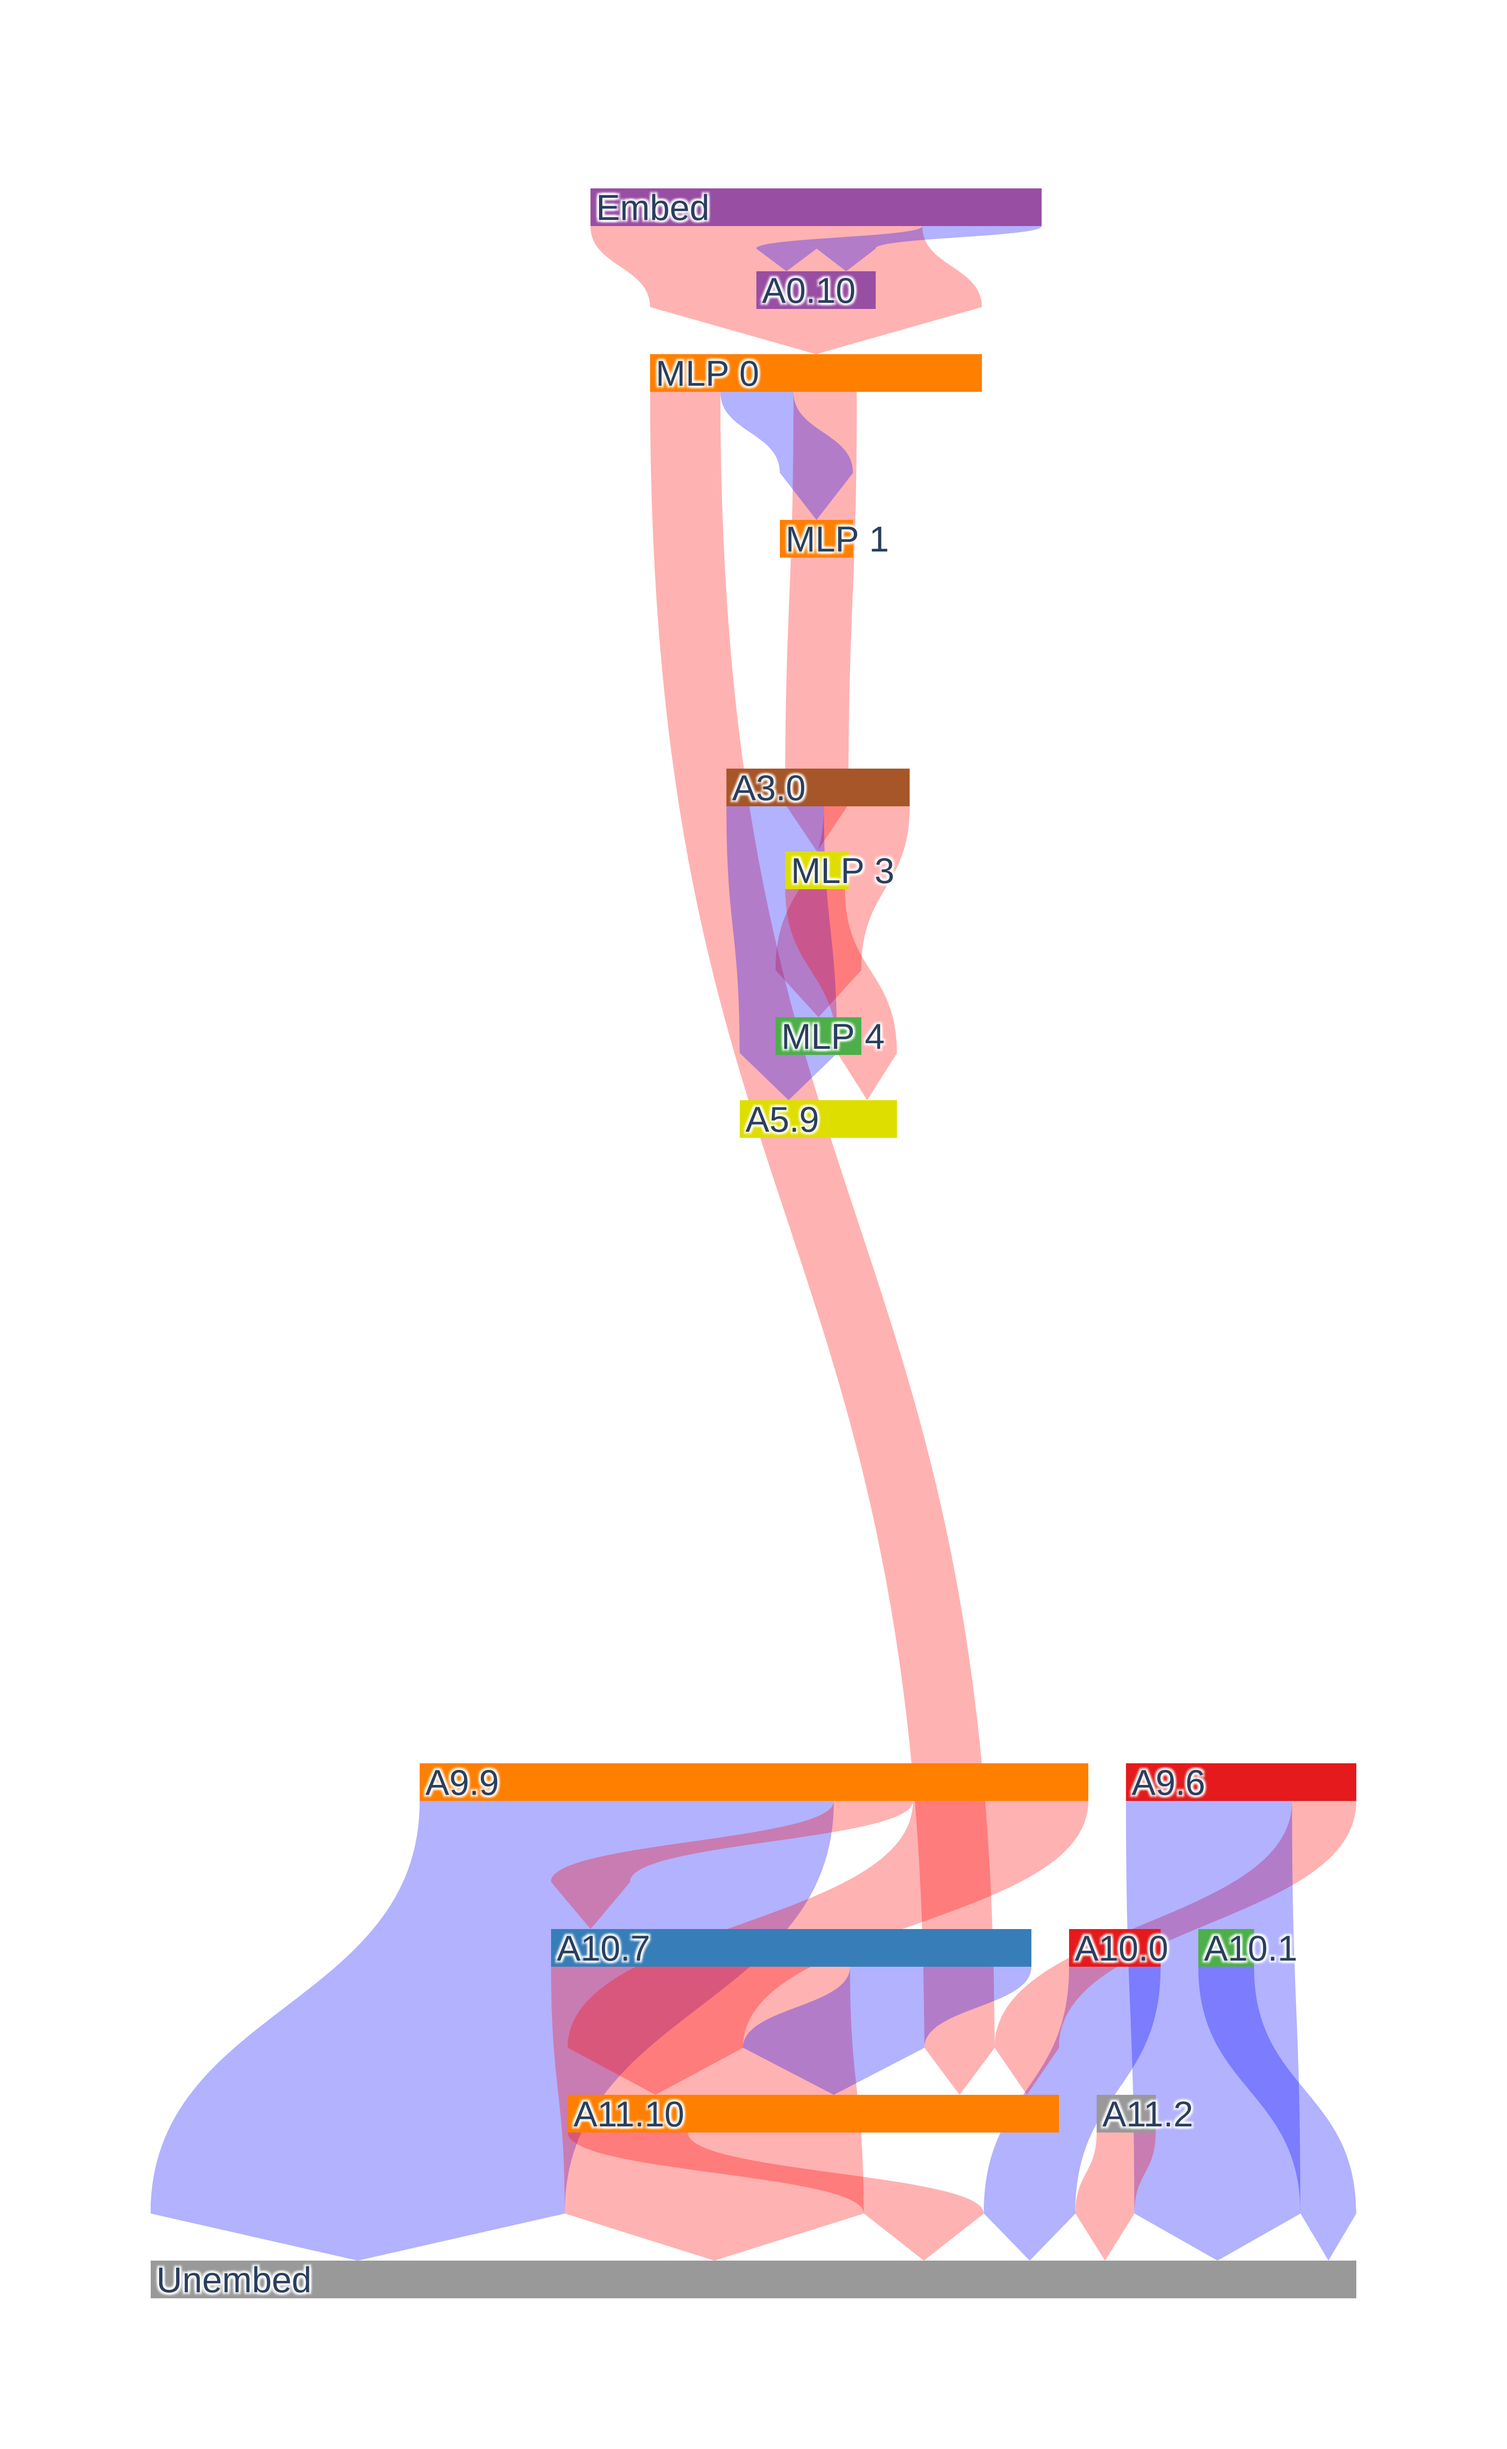
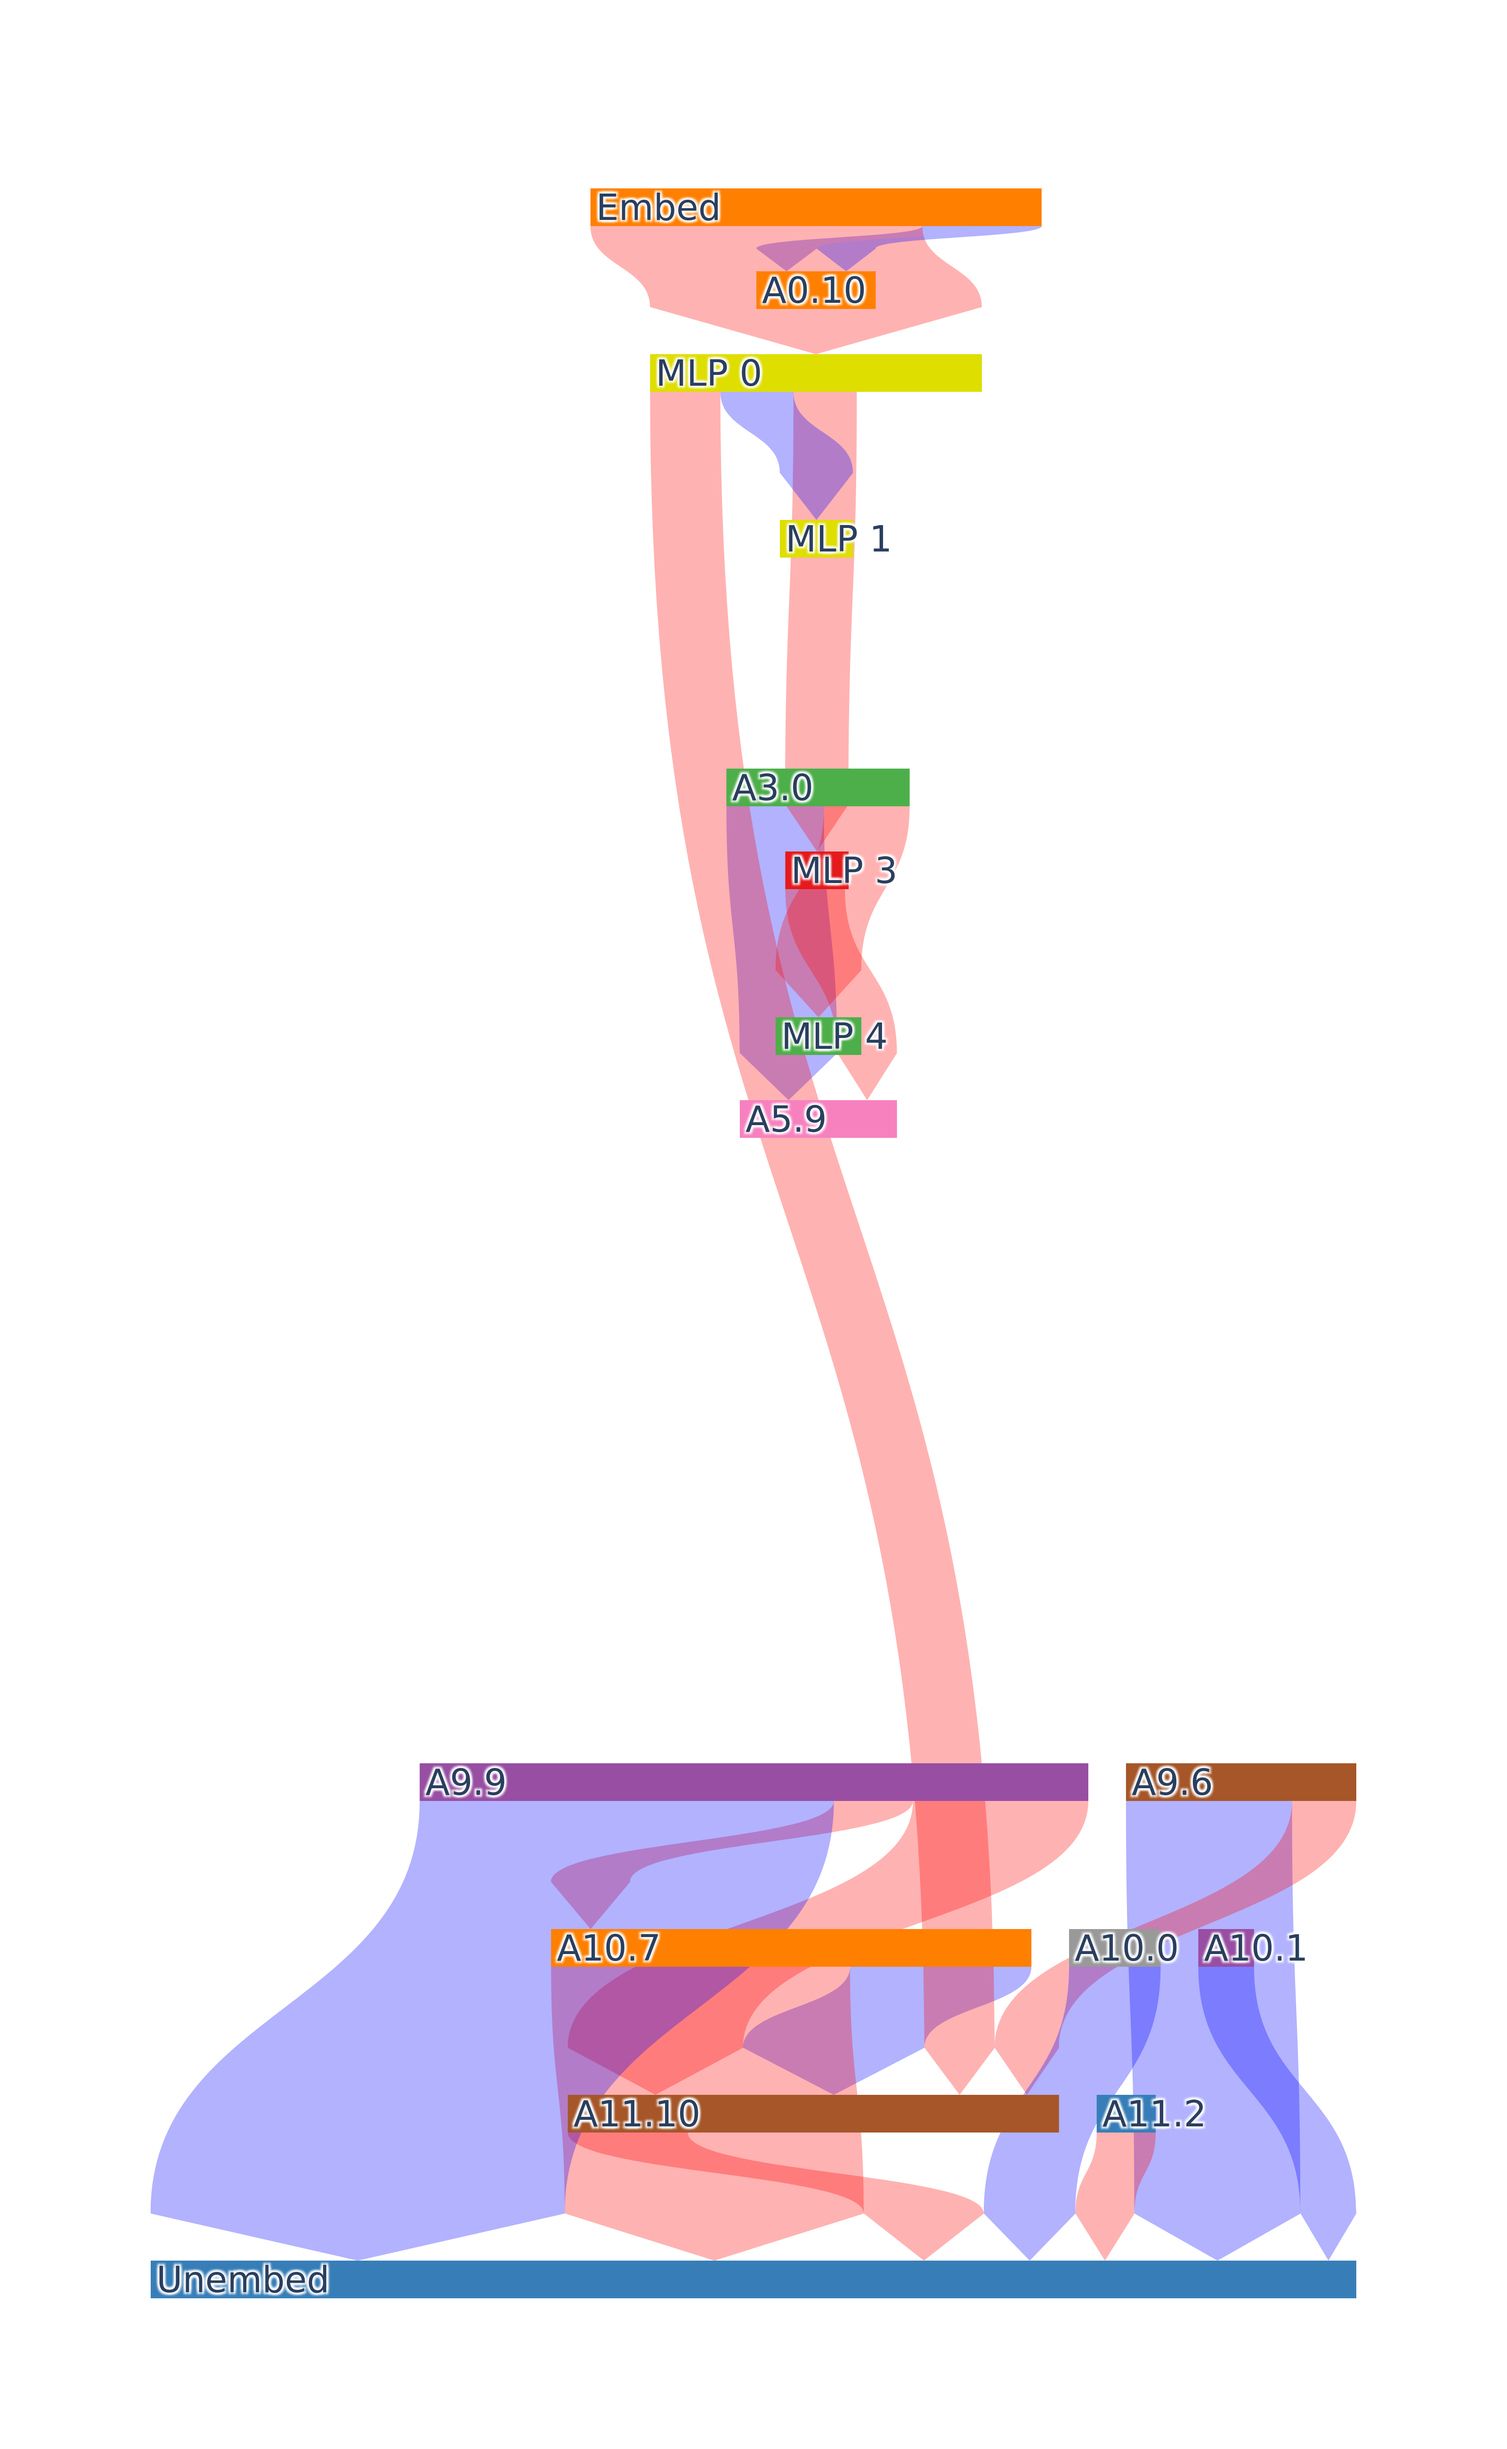
auto-circuit: keep only the 3 compatibility fixes; restore upstream PIG file and doc images

diff --git a/code/external/auto-circuit/auto_circuit/prune_algos/parameter_integrated_gradients.py b/code/external/auto-circuit/auto_circuit/prune_algos/parameter_integrated_gradients.py
@@ -1,89 +1,75 @@
-from enum import Enum
-from itertools import chain
-from typing import Dict
+# class BaselineWeights(Enum):
+#     """The baseline weights to use for integrated gradients."""
 
-import torch as t
-from ordered_set import OrderedSet
-from torch.utils.data import DataLoader
-from tqdm import tqdm
-
-from auto_circuit.data import PromptPairBatch
-from auto_circuit.types import Edge
-from auto_circuit.utils.graph_utils import graph_edges
+#     ZERO = 0
+#     MEAN = 1
+#     PERMUTED = 2
 
 
-class BaselineWeights(Enum):
-    """The baseline weights to use for integrated gradients."""
+# def parameter_integrated_grads_prune_scores(
+#     model: t.nn.Module,
+#     factorized: bool,
+#     train_data: DataLoader[PromptPairBatch],
+#     baseline_weights: BaselineWeights,
+#     samples: int = 50,
+# ) -> Dict[Edge, float]:
+#     """Gradients of weights wrt to network output, integrated between some baseline
+#     weights and the actual weights."""
 
-    ZERO = 0
-    MEAN = 1
-    PERMUTED = 2
+#     edges: OrderedSet[Edge] = graph_edges(model, factorized)
+#     weights = set(chain(*[[e.src.weight, e.dest.weight] for e in edges]))
+#     weights = list(filter(lambda x: x is not None, weights))
 
+#     normal_state = {}
+#     for name, param in model.state_dict().items():
+#         if name in weights:
+#             assert isinstance(param, t.Tensor)
+#             normal_state[name] = param.clone()
 
-def parameter_integrated_grads_prune_scores(
-    model: t.nn.Module,
-    factorized: bool,
-    train_data: DataLoader[PromptPairBatch],
-    baseline_weights: BaselineWeights,
-    samples: int = 50,
-) -> Dict[Edge, float]:
-    """Gradients of weights wrt to network output, integrated between some baseline
-    weights and the actual weights."""
+#     base_state = {}
+#     if baseline_weights == BaselineWeights.ZERO:
+#         base_state = dict([(n, t.zeros_like(p)) for n, p in normal_state.items()])
+#     else:
+#         raise NotImplementedError
 
-    edges: OrderedSet[Edge] = graph_edges(model, factorized)
-    weights = set(chain(*[[e.src.weight, e.dest.weight] for e in edges]))
-    weights = list(filter(lambda x: x is not None, weights))
+#     ig = dict([(n, t.zeros_like(p)) for n, p in normal_state.items()])
+#     for idx in (pbar := tqdm(range(samples))):
+#         pbar.set_description_str(f"PIG Sample {idx+1}/{samples}", refresh=False)
+#         lerp_state = {}
+#         for name in weights:
+#             lerp_state[name] = base_state[name] + (
+#                 normal_state[name] - base_state[name]
+#             ) * idx / (samples - 1)
+#             model.load_state_dict(lerp_state, strict=False)
 
-    normal_state = {}
-    for name, param in model.state_dict().items():
-        if name in weights:
-            assert isinstance(param, t.Tensor)
-            normal_state[name] = param.clone()
+#         model.zero_grad()
+#         for batch in train_data:
+#             out = model(batch.clean)
+#             loss = out.mean()
+#             loss.backward()
 
-    base_state = {}
-    if baseline_weights == BaselineWeights.ZERO:
-        base_state = dict([(n, t.zeros_like(p)) for n, p in normal_state.items()])
-    else:
-        raise NotImplementedError
+#         for name, param in model.named_parameters():
+#             if name in weights:
+#                 assert isinstance(param.grad, t.Tensor)
+#                 ig[name] += param.grad / samples
 
-    ig = dict([(n, t.zeros_like(p)) for n, p in normal_state.items()])
-    for idx in (pbar := tqdm(range(samples))):
-        pbar.set_description_str(f"PIG Sample {idx+1}/{samples}", refresh=False)
-        lerp_state = {}
-        for name in weights:
-            lerp_state[name] = base_state[name] + (
-                normal_state[name] - base_state[name]
-            ) * idx / (samples - 1)
-            model.load_state_dict(lerp_state, strict=False)
+#     weight_diffs = {}
+#     for name, normal_param in normal_state.items():
+#         weight_diffs[name] = normal_param - base_state[name]
 
-        model.zero_grad()
-        for batch in train_data:
-            out = model(batch.clean)
-            loss = out.mean()
-            loss.backward()
+#     for name, val in ig.items():
+#         ig[name] = val * weight_diffs[name]
 
-        for name, param in model.named_parameters():
-            if name in weights:
-                assert isinstance(param.grad, t.Tensor)
-                ig[name] += param.grad / samples
+#     prune_scores = {}
+#     for edge in edges:
+#         if factorized:
+#             src_ig = ig[edge.src.weight][edge.src.weight_t_idx]
+#             dest_ig = ig[edge.dest.weight][edge.dest.weight_t_idx]
+#             prune_scores[edge] = (
+#                 src_ig.abs().sum().item() + dest_ig.abs().sum().item()
+#             ) / 2
+#         else:
+#             src_ig = ig[edge.src.weight][edge.src.weight_t_idx]
+#             prune_scores[edge] = src_ig.abs().sum().item()
 
-    weight_diffs = {}
-    for name, normal_param in normal_state.items():
-        weight_diffs[name] = normal_param - base_state[name]
-
-    for name, val in ig.items():
-        ig[name] = val * weight_diffs[name]
-
-    prune_scores = {}
-    for edge in edges:
-        if factorized:
-            src_ig = ig[edge.src.weight][edge.src.weight_t_idx]
-            dest_ig = ig[edge.dest.weight][edge.dest.weight_t_idx]
-            prune_scores[edge] = (
-                src_ig.abs().sum().item() + dest_ig.abs().sum().item()
-            ) / 2
-        else:
-            src_ig = ig[edge.src.weight][edge.src.weight_t_idx]
-            prune_scores[edge] = src_ig.abs().sum().item()
-
-    return prune_scores
+#     return prune_scores

diff --git a/code/external/README.md b/code/external/README.md
@@ -2,7 +2,7 @@
 
 | Folder | Upstream | Commit | How stored | Local changes |
 |---|---|---|---|---|
-| auto-circuit | https://github.com/UFO-101/auto-circuit | 8fc5afd | plain files (vendored) | data.py, prune_algos/parameter_integrated_gradients.py, utils/patchable_model.py (TransformerLens KV-cache import fix), visualize.py. Full diff: auto-circuit_local_changes.patch |
+| auto-circuit | https://github.com/UFO-101/auto-circuit | 8fc5afd | plain files (vendored) | data.py + utils/patchable_model.py: TransformerLens KV-cache import fix; visualize.py: fig.show() disabled for headless nodes. Full diff: auto-circuit_local_changes.patch |
 | MIB-circuit-track | https://github.com/hannamw/MIB-circuit-track | pinned by submodule | git submodule | none -- never edit; outputs go to results/mib/ |
 
 EAP-IG (https://github.com/hannamw/EAP-IG, e24bafd) was removed; MIB-circuit-track includes it as its own submodule.
